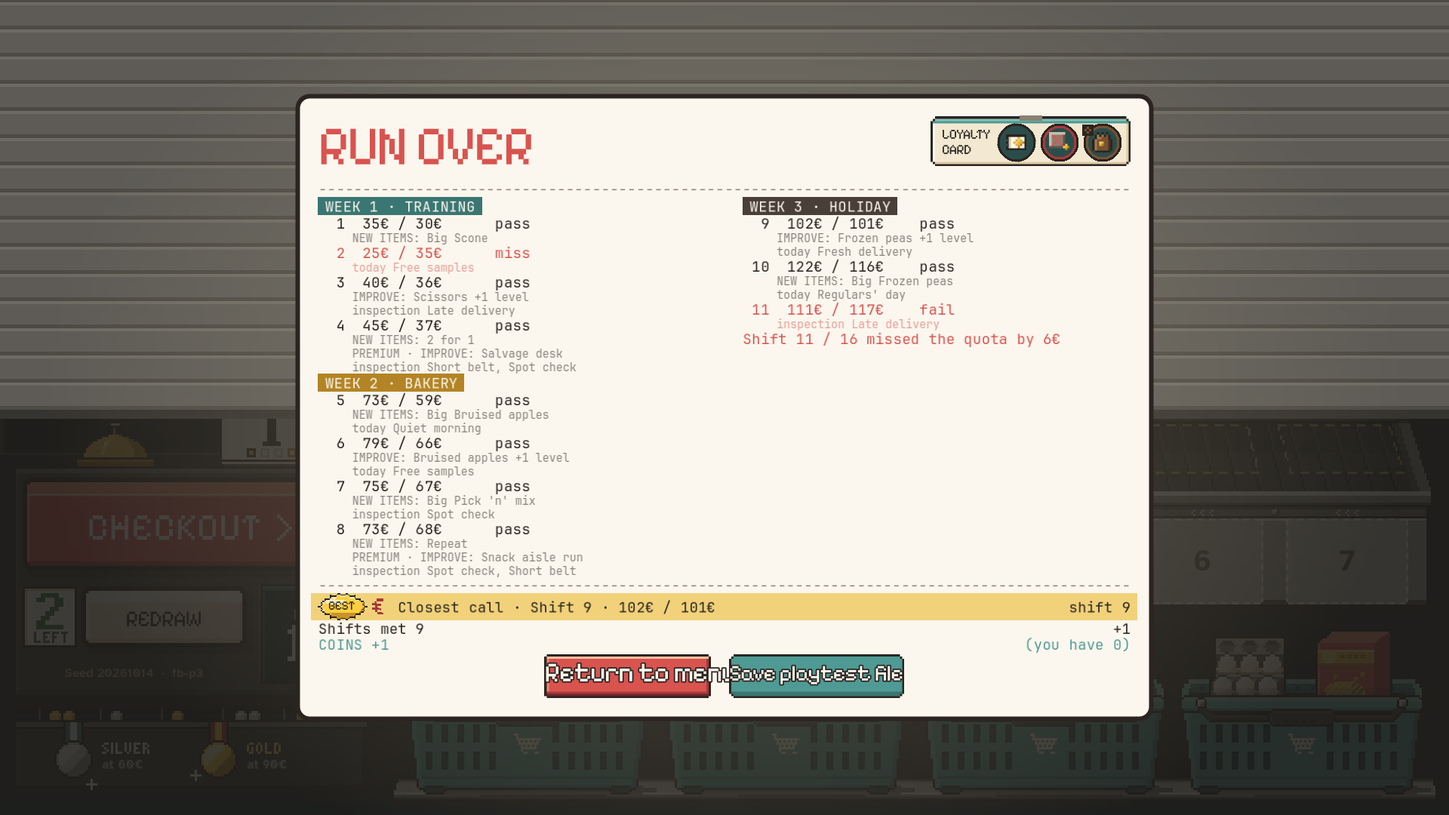
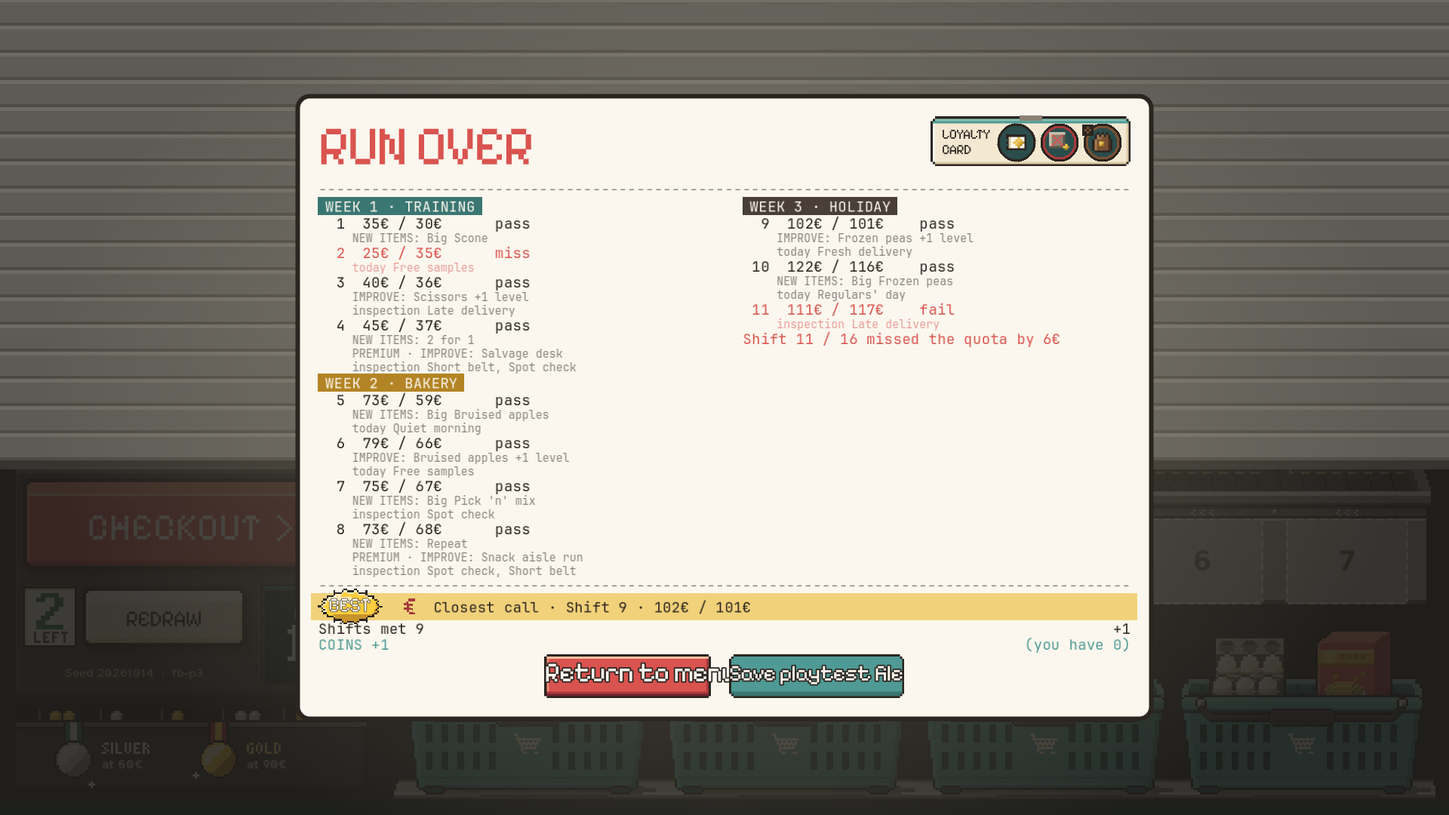
Fix the BEST line review findings
- Double checkout: split the joined result's MORNINGs at row 1's cards,
  so two rows' MORNINGs are never one longer combo; new core test.
- Move the shortest combo and the Closest call miss factor into
  HighlightDefinition (min_combo 2, close_miss_factor 0.5).
- Bigger, readable BEST sticker: the largest scale that fits (half
  steps, whole from 2), overhanging the band; 13-character indent in
  week columns; BEST in cream with an ink outline; mini centred.
- Leave out the right-hand "shift N" when the text names the shift or
  the line would be wider than the receipt.
- Retake the four receipt captures; plan doc updated.

diff --git a/docs/FULL_BUILD_PLAN.md b/docs/FULL_BUILD_PLAN.md
@@ -417,7 +417,7 @@ The run's dessert is the final receipt on the results screen (`ui/final_receipt.
 - the headline, "RUN WON!" or "RUN OVER", in green or red
 - one line per played shift: its number, €total / €quota and pass or fail, then one dim line per machine visit ("NEW ITEMS: Milk", "BONUS · UPGRADE: Eggs › GOLDEN", "UPGRADE: Coupon engine LV 2", "binned NEW ITEMS" since v0.61; "BONUS · UPGRADES: …", "STAMP DAY: Category engine" and "binned COUPONS" until then; until #77 the card picked or "skipped" and the upgrade taken) and the inspection played; the receipt steps its fonts down until a full run fits under the top bar
 - on a lost run, the shortfall ("Shift 3 / 8: short by €12")
-- since v1.37, the run's best moment on one gold BEST line between the history and the coins (the approved direction A of `docs/art/mockups/receipt_highlight.html`): a gold BEST sticker, the item's mini, "Biggest payout · Golden Milk · 264€" and the shift on the right ("shift 14"). `RunHighlight` (core) picks it from the run history: Biggest payout (one item's payout against half its shift's quota), Over quota (a passed shift's total against ×2 its quota, "×2.3"), Longest combo (a CHAIN, BATCH or MORNING against 5 items, "Longest CHAIN · 5 items · 118€"), First GOLDEN (the first GOLDEN item checked out, always at its bar) and Closest call (a shift passed by 1€ or less, "Closest call · Shift 9 · 102€ / 101€"); the highest score (value against bar) wins, the kind listed first on a tie, and when no kind reaches its bar Biggest payout prints anyway, so a lost run gets its line too. Within a kind the bigger value wins, then the later shift, then the earlier slot; a Day off is skipped. The bars, the kinds' order and their words are data (`data/balance/highlight.tres`, `HighlightDefinition`). Each checkout records its best item and longest combo (`ShiftRecord.best_payout`, `best_card`, `best_combo`; run save format 16); a run saved before v1.37 picks from what it has, and with nothing at its bar and no payout recorded prints no line. In week columns the line spans both columns. It prints in its turn: the band wipes in (200 ms), the sticker slams down with the stamp sound and holds 50 ms, a glint crosses the band (450 ms), and the coins wait 300 ms more (`final_highlight_*` in `CountUpTuning`: about 0.62 s added); a tap prints it in its final state with the rest; reduced motion shows it at once and keeps the hold
+- since v1.37, the run's best moment on one gold BEST line between the history and the coins (the approved direction A of `docs/art/mockups/receipt_highlight.html`): a gold BEST sticker, the item's mini, "Biggest payout · Golden Milk · 264€" and the shift on the right ("shift 14"; left out when the text names the shift, Over quota and Closest call, or the line would be wider than the receipt). The sticker is drawn at the largest scale that fits the indent (9 characters, 13 in week columns) and overhangs the band a little, as the mock-up's does; its BEST is cream with an ink outline. `RunHighlight` (core) picks it from the run history: Biggest payout (one item's payout against half its shift's quota), Over quota (a passed shift's total against ×2 its quota, "×2.3"), Longest combo (a CHAIN, BATCH or MORNING against 5 items, "Longest CHAIN · 5 items · 118€"), First GOLDEN (the first GOLDEN item checked out, always at its bar) and Closest call (a shift passed by 1€ or less, "Closest call · Shift 9 · 102€ / 101€"); the highest score (value against bar) wins, the kind listed first on a tie, and when no kind reaches its bar Biggest payout prints anyway, so a lost run gets its line too. Within a kind the bigger value wins, then the later shift, then the earlier slot; a Day off is skipped. A Double checkout's two rows each have their own MORNING, so they are never counted as one combo. The bars, the shortest combo (2 items), the score of a Closest call that misses its bar, the kinds' order and their words are data (`data/balance/highlight.tres`, `HighlightDefinition`). Each checkout records its best item and longest combo (`ShiftRecord.best_payout`, `best_card`, `best_combo`; run save format 16); a run saved before v1.37 picks from what it has, and with nothing at its bar and no payout recorded prints no line. In week columns the line spans both columns. It prints in its turn: the band wipes in (200 ms), the sticker slams down with the stamp sound and holds 50 ms, a glint crosses the band (450 ms), and the coins wait 300 ms more (`final_highlight_*` in `CountUpTuning`: about 0.62 s added); a tap prints it in its final state with the rest; reduced motion shows it at once and keeps the hold
 - the coins at the bottom: shifts passed (an overtime line until v1.03), then the run's coins and the profile's total ("you have ?" when the profile couldn't be saved)
 
 It prints line by line, one every 80 ms (`final_line_ms`), and a tap prints the rest at once (its own press reader). The coin sounds and the music's 18 dB duck start when the coin lines print, a skipped print included. The loyalty card, with its starting-upgrade box, is stapled to the top-right corner beside the headline and covers no line. Return to menu (the one primary action since v0.93) keeps its 350 ms / mouse-up arm, so it can be clicked mid-print (it prints the rest at once first); Export log stays. Return to menu logs `results_exit` and opens the title with its sign already lit (no intro).
@@ -827,7 +827,7 @@ Content freeze at the end of phase 3. No new features after that.
 | v1.31 | 2026-11-12 | BATCH bookends (the user's pick of 2026-11-12 on the mock-up `docs/art/mockups/batch_positions.html`: option A "Bookends" with option D's icing drip); playtest-facing, presentation only, no rule, card value, payout or save change · **Caps:** a Bakery batch's frame (`BatchFrame`, its bookends `BatchBookends`) gets an end cap on each side the rules read: a FIRST cap on its left side when its first ticket is the batch's first, a LAST cap on its right side when its last is the batch's last (a batch split by a link that skips products caps only its end runs; a drag's ghost at a batch end keeps that end's cap, and the drip, at the frame's end). A cap is 18 px of ink round a mustard face shaded dark at its sides, a light row near its top and a dark row near its foot, 8 px outside the frame's side and 6 px over its top, down to its foot, onto the end ticket's outline only; its word sits on a mustard plate (the knot plate's pixel glyphs) across the frame's foot under the end ticket, against its cap (the mock-up had the tabs on the top band, where the planning rail strips and their CROISSANT banners run and hid them, so they moved to the foot). A frame lit by a BATCH chip turns the caps gold too. A Produce chain's frame (`ChainFrame`) wears none · **Icing drip:** when an Iced bun glazes the batch's last item (from the score's MULTIPLIER step, `PlanningModel.glazes`), its icing (`art/src/effects/icing_drip.txt`, 12x19 at 2x) pours over the LAST cap from its top, 2 px over its left side (centred, it covered the last ticket's price window; further right, the next ticket) · **Planning hover:** hovering a job card lights the cap it reads gold with its tab (×1.2 and a glow, 0.2 s): Croissant FIRST, Stale doughnut LAST, Iced bun LAST with a gold dashed line under the frame's foot from its ticket to the cap and its drip running down again (0.5 s); a Baguette fills the frame's foot band in gold up to its ticket (0.6 s); a job WASTED at its place turns its cap and tab tomato. A small plate under the ticket, beside the tabs, says it: NOT FIRST, NOT LAST, 2 EARLIER (the Baguette's count, from its bonus step), ×2 LAST, IS LAST, 0 EARLIER · **Count:** the batch's frame now stays in the count (`BatchFrames.count`), round the batch's tickets still on the belt (the bagged ones drop off its left end, and the FIRST cap with the first); each job card's step plays on it (`BeltRide` and the handbook clip call `BatchFrame.fire`): an opener armed slams the FIRST cap and runs a gold spark (`art/src/effects/batch_spark.txt`) along the frame to the LAST cap, which slams as it lands (0.7 s, 0.76 s); a Baguette's bonus fills what's left of the frame's foot band, from its left end to its ticket (0.5 s), and counts its earlier items in numbered pops over the frame (0.16 s apart); a closer's bonus runs the spark, counts the batch (0.12 s apart) and slams the LAST cap. A counted item still on the belt pops over its ticket; the bagged ones tick in one counter at the frame's left end, each number replacing the last with a small punch (×1.3, 0.12 s), so the pops never pile up. A batch split over two frames plays each beat once: the spark and a cap's slam on the frame showing that cap, the dashed line (hover too) only on the frame showing LAST, from the Iced bun's ticket or that frame's left end; an Iced bun armed draws its dashed line to the lit LAST cap, and its ×2 landing slams it, pops ×2 and runs the drip again; a job WASTED slams its cap tomato. All on the count's tweens; reduced motion lights and puts back at once (glow and enlarged tab included) with no slam, spark, fill run or pop; a hover ending mid drip re-run leaves the drip whole · **Handbook:** BATCH's clip shows the caps and its count beats; its window's foot now drops under the FIRST and LAST tabs (`HandbookClip._fit_view`, at their lit size), which it cut before · **Handbook updated** (the user's note of 2026-11-12 after playing: "looks good, guide need update"): BATCH's page keeps its first paragraph over the clip (still the BATCH chip's tooltip, word for word) and adds two after the worked equation, under a dashed rule (`HandbookEntry.page_notes`: a rule's later paragraphs, a blank line apart; `tip_rule` its first, the tooltip): the frame's FIRST cap on its left end and LAST cap on its right end; hover a card to light the cap it needs (Croissant FIRST; Stale doughnut and Iced bun LAST, the Iced bun's icing dripping over it; Baguette fills the frame's foot in gold, counting the items before it); a lit BATCH chip turns both caps gold, a WASTED card its cap red; the split-frame sentence was dropped at the merge with v1.29, whose Shelf swap no longer links over items (no live card splits a batch; the bookends still cap only a split batch's real ends). The Bakery page names the caps too. Capture: `--handbook=<entry id>,scroll=end` scrolls the entry to its end. Tests: `handbook_data_test` (the BATCH page's wording, its tooltip the first paragraph), `handbook_page_ui_test` (the notes after the slip inside the column, both caps' tabs inside the clip's window); captures `docs/art/mockups/batch_bookends_captures/handbook_batch_*`, `handbook_batch_caps_text_*`, `handbook_bakery_*` · Tests: `batch_bookends_ui_test` (model readers; caps at the first and last tickets, onto their outlines only, tabs across the frame's foot, nothing over a ticket's text, chips, glyphs or window; the drip only with an Iced bun on the last, off the other tickets and every keep-clear area; the hover looks, fill, dashed line and notes, an item with no job lighting nothing; NOT LAST, IS LAST and 0 EARLIER; the real count through BeltRide (frame round the tickets left, FIRST cap gone with the first, pops over tickets or the left-end counter, never two at one place); the bagged items' counter and no pop dropped before it starts; a split batch's beats once each; a drag's ghost at either batch end; reduced-motion hover and the drip after a cut hover; a chain's frame wears none), `batch_frame_ui_test` (the count keeps the frame, round the tickets left once the first two are bagged) · not re-measured: no balance change · captures `docs/art/mockups/batch_bookends_captures/` |
 | v1.32 | 2026-11-13 | Start boosters: rules, data, save and screens (the user's pick of 2026-11-13 on `docs/art/mockups/start_boosters_v3.html`: "I really like mockup. I think we can start building and we'll polish small details after on") (section 7.2, "Page 1 Boosters"); playtest-facing, opening-time rules: the Staples basket draw goes; two sealed aisle boosters of 3 cards (2 COMMON + 1 hit card, RARE (BIG) at `start_booster_hit_rare_percent` 50, never GOLDEN), opened by the player; swaps wait until every booster is open; 3 offers per aisle (`regular_offer_max` 4 -> 3); RESTOCK deals a whole opened booster again (new hit, differs by at least one card); at 6 completed aisles PICK 2 OF 3 replaces the aisle change (`profile.stock_pair` no longer used); **2-aisle runs** (the user's play test of 2026-11-13: "the 2 booster you choose are the only one inside the run, the run-only one does not read well visually and not sure it is useful"): a run stocks only its two boosters' aisles (the two dealt, or the pair kept at PICK 2 OF 3), so the RUN ONLY aisle and its sign are gone and the machine's NEW ITEMS draw only the staples and those two aisles' products; **capsule items from other aisles no longer join a run** (the user, 2026-11-13: recently unlocked items of other aisles must not reach a run either): the end-cap's new arrivals are removed, a capsule item is in a run only when the run stocks its aisle, the run's first NEW ITEMS draw no longer holds one, the Run info's NEW chip goes, and `end_cap_max`, `end_cap_window_runs` and `new_arrival_first_visit` are removed (a run save no longer writes `new_arrivals`; an older save's list is ignored, no format change); `stock_aisle_count` removed (`dealt_aisle_count` 2 is the stock); with a badge pin earned (or any pin worn) the BADGE PINS step comes before the packs (the pins every profile starts with don't hold them). New data: `start_booster_size` 3, `start_booster_hit_slots` 1, `start_booster_hit_rare_percent` 50, `start_booster_choice_count` 3 (`start_basket_size` removed). The good first pick is suggested (GOOD FIRST PICK, TAKE PACK N), no longer picked for the player at the deal. Presentation: YOUR STORE is the store at dawn (shutters roll up, walk-in, lamps on a ceiling track, each booster opened by hand with the hit card waiting for a click, STOCKED! when the last opens), the regulars in a STANDING ORDER crate that opens the **swap window** (the user's pick of 2026-11-13 on `docs/art/mockups/start_regulars_swap.html`, variant A: "I really like new swap with booster opening and drag and drop mechanic"; it replaces the swap tray: a modal with one swap booster of up to 3 plain products per stocked aisle, opened like page 1's boosters, drawn and saved the first time the window shows; drag and drop or click then click onto the regulars' basket; a card on a swapped slot trades places; undo by dragging the OUT regular back or the item out, or RESET; no per-aisle swap limit (`staple_swap_aisle_max` removed: all swaps may come from one aisle); refusals NO SWAPS LEFT, 2 IN THE CART, BACK TO ITS SPOT; the ⇄ N LED; DONE plays the new regulars into the crate with a ⇄ chip; locked under padlocks with no completed aisle; **NEXT stops once** at the window while a swap is unlocked and unused, then DONE goes on to YOUR BUILD), the **RESTOCK key moved** to the floor row just left of the primary key (as tall, a pixel refresh glyph before RESTOCK; teal when ready, brass and pressed in while armed, a second click cancels, grey once used, hidden while locked; the hint LED shortens and stays centred) with its returns tote centred in the counter front, PICK 2 OF 3 under three lamps with the third SOLD OUT; YOUR BUILD shows the packs face up as cards, NEW PACKS on the deck pile, the BADGE PINS step, and OPEN STORE flies the cards into the cart before the roller shutter; a **press-bob NEXT key** (the user's pick C on `docs/art/mockups/next_key_idle.html`): the armed primary key (both pages, and the pins step's) no longer wears chase bulbs; it never changes size: on arming its face hops 1, 2, 1, 0 art px, then every 1.8 s the face rises 1 art px with the dark ledge doubling under it for 0.4 s (as if released and waiting to be pressed), the labels moving with the face; it rests while hovered, and under reduced motion it stays still (`next_hop_ends_s`, `next_hop_lifts`, `next_bob_from_s`, `next_bob_s`, `next_bob_hold_s`, `next_bob_px` in `data/balance/start_boosters.tres`). Run save format 15 (14 before the swap window, 13 on this branch before the 2-aisle runs; a setup saved mid-way, with a third stocked aisle or with per-slot regulars offers, restarts; a run resumed with a sealed RESTOCK booster opens on page 1). Balance numbers left to the end-of-phase pass. |
 | v1.33 | 2026-11-13 | Words pass: one name per thing (QUOTA, SHIFT, ...) and the clearer rewrites from the text audit; hover tips B paper card (the user's review of 2026-11-13 of the text audit and `docs/art/mockups/hover_tips.html`: apply every audit fix and rewrite, vetoes in play; QUOTA, SHIFT and YOUR REGULARS are the dominant terms, the audit's STAPLES rename is rejected); playtest-facing, words only, no rule, card value, payout or save change. Dominant terms: QUOTA (no TARGET, SPEND or BEAT for it: the receipt head reads MEET THE QUOTA, the monitor QUOTA N€, margins N€ OVER QUOTA, MISSED BY N€, ON QUOTA, stamps QUOTA MET, the monitor's checkout stamp MET! to fit its column), SHIFT for the turn (the Day off pin is now Shift off; the desk calendar's page reads SHIFT over the shift's number, in the small capitals so it clears the sign), PAYDAY (no manager's or final review; PAYDAY · 2 INSPECTIONS, no maluses), MISS (no slip or short), YOUR REGULARS, EXTRA DRAW and PREMIUM (no bonus ticket, bonus draw or AGAIN!; the premium and payday announces read RARE OR LEGENDARY and ITEMS BIG OR GOLDEN), DAY EVENTS (the run info heading), LOYALTY PERKS (the run info heading; the machine's second chute is IMPROVE · BETTER CARDS, PERKS, shortened to fit the key), +1 level (no steps), HANDBOOK (pause plate, title and top bar buttons, the tip footer), TOYS (the title button and the storefront till). Rewrites: every card rule names its keyword in capitals (BATCH, CHAIN, PAIRED) and prints € on its bonuses (+4€; the monitor's descriptions and the stickers keep their digit-free templates, and Lemon, Soup, 2 for 1 and Shelf swap keep their monitor wording, to hold round 4's text band); place words follow the glossary (earlier, right before, beside, (max N)); Eggs, Batteries, Lemon, Stale popcorn, Multipack, Odd socks, Soup, Iced bun, Birthday candles, Cream, 2 for 1, Shelf swap and the tags reworded; the loyalty perks say item, not product, with the audit's Category engine, Coupon engine, Lemon squeezer, Rule bender, Salvage desk, Slot engine, Bulk deal, Fire sale, Banana stand, Perfect pair, Mixed basket and aisle-run wording; day events in sentence case (Free samples' First item ×2, Happy hour's Last card +3€, Small baskets' −1 basket item); the training week and Holiday rush notices; handbook pages CHAIN, WASTED, PAIR, Food, Coupon, Repeat, FIRST / LAST and a new PLACES page LATER (the keyword tips follow); the results receipt (missed the quota by, Shifts met, thrown away, MEDAL ·); the seed line shows in debug builds only. Hover tips, design B "paper card" (the recommended one in `docs/art/mockups/hover_tips.html`, approved 2026-11-13): every hover in the game is one shared card (TipCard, drawn from a TipSpec; mounted by GlyphTips; the badge pin's card is the same card): pixel-crisp pin_card frame with its ink shadow and tail, a band in the kind's colour (mustard keyword, the family's face, teal perk, slate status, brass pin, cream coupon/price, tomato when something is not working, paper for a word) with the icon, the title in chunky capitals and a tag, the rule with coloured money, ×N pills, keyword and family chips and underlined boxed words, a muted fine-print line, a live line with a dot, and key caps for CLICK <action>, RIGHT-CLICK HANDBOOK and SHIFT KEPT. Up to 2 keyword or word boxes (QUOTA, THE ROW, SLOT, FAMILY, COUPON, PREMIUM and every keyword) open beside the card, on the side with more room, flipping at the screen's edges. It opens after 0.2 s with a small pop, opens off the hovered thing (not the mouse: below tickets and the top bar, right of the left column, above the belt), stays inside the screen at 1280x720 and 1920x1080, moves straight to the next thing within 0.3 s of closing, Shift keeps it open (Esc or a click closes it) and a right-click opens its handbook page. Migrated from native tooltips or the old GlyphTip: loyalty stamps and the LOYALTY word, week medals ("Score 130€ in one shift (2× the quota) to get one extra prize draw", ONCE A WEEK, their state as the live line), the week glass (week, event and its effect, CLICK TIME CARD), the machine's chutes, closed slots, Spot check's zero slot, the Shift off pile, the price gun, its picker and the family sticker tag, the keep screen's items, the Menu key, family glyphs and words, keyword chips (NOT WORKING when wasted), MORNING marks, ticket colours, price windows (PAYS 3€) and the monitor's bag and coupon glyphs. The start screen (after the start boosters merge): its canvas hovers show the same card through StartTips, a pool of TipTargets laid each frame over BoosterPage's, the swap window's and BuildPage's hit areas and shown by the board's own GlyphTips (it replaces the board's scan popup): the crate's regulars (BANANA · YOUR REGULAR, the rule, CLICK SWAP, which opens the swap window; locked, "Swaps locked: 1 swap per finished aisle."; before every booster is open, "Open every booster to swap it."), each opened booster card (tagged with its aisle) and its family chips (HOUSEHOLD · FAMILY: "Scissors is a Household item." with the FAMILY box), the swap window's cards (a card the copy limit keeps out says "You can't have more than 2 of one item." in red; an OUT regular and a SWAPPED IN item say how to undo) and basket items, page 2's spread pack cards (tagged with the pack) and each pack's family band ("This starter pack is built around Breakfast items."); no tip while a booster opens, a card is dragged, the swap window slides, the page slides, the BADGE PINS step is open or the deal or OPEN STORE's flight runs; the RUN-ONLY tip is dropped (the third aisle is gone). Start screen words: OPEN STORE › over N CARDS (no CLOCK IN), the hint LED OPEN STORE, THEN START SHIFT 1, WORN PINS: ACTIVE THIS RUN, the copy limit's tag MAX 2 IN CART (the hint LED YOU CAN'T HAVE MORE THAN 2 OF ONE ITEM, also for a pack the copy limit refuses, was TOO MANY COPIES IN THE CART), SWAPS LOCKED · 1 SWAP PER FINISHED AISLE (was COMPLETE AN AISLE) and RESTOCK AT 3 FINISHED AISLES; the title screen's export icon shows its tip (its own GlyphTips on the stage); the log export reads *Save playtest file* (top bar menu, results, title tip; it stays in release, since the playtest builds are release exports); the machine's thank-you line names the TOTAL (TOTAL 114€ ✓), an inspection's extra draw is stamped QUOTA MET · INSPECTION, and Slot engine says *the card in slot 6* (a Repeat there counts); the machine's prize popup tags a perk PERK (LOYALTY PERK overran its title box); the week glass's training-week tip counts the misses left; the figurine book's perk ring shows no tip; a tip's keyword boxes keep off the hovered target and its footer keys wrap to a second row; the receipt's quota stamp reads QUOTA MET (was BEATEN!); the starter packs' hints print € on their bonuses (Milk bar: Cream +4€ for each PAIRED item); a copy-limited swap window card fits its rule above its MAX 2 IN CART tag (Bent lolly's last line hid under it).
-| v1.37 | 2026-11-13 | The final receipt's BEST line (the user's yes of 2026-11-13 to direction A of `docs/art/mockups/receipt_highlight.html`, its questions' defaults taken) (section 6.2); playtest-facing, no scoring rule or card value change · **Pick:** pure `RunHighlight` (core) over the run history: Biggest payout, Over quota, Longest combo (CHAIN, BATCH or MORNING), First GOLDEN and Closest call, each scored against its bar in `data/balance/highlight.tres` (`HighlightDefinition`, linked as `BalanceDefinition.highlight`: half the shift's quota, ×2 the quota, 5 items, any GOLDEN, passed by 1€ or less), the highest score winning, the kind order breaking ties, Biggest payout the fallback, so every run that paid for an item gets a line, a lost one too; within a kind the bigger value, then the later shift, then the earlier slot; a Day off is skipped; Biggest checkout and Rarest prize stay out; a combo reads "N items" (no plural item names) · **Records:** `RunState.checkout` fills each `ShiftRecord`'s `best_payout`, `best_card` and `best_combo` (keyword, length, pay) from the checkout's result (a Double checkout's joined one), written only when set; **run save format 16** (a version 15 save reads as it is: its records have none, so its highlight picks from the other kinds, and prints no line with nothing at a bar and no payout) · **Receipt:** `FinalReceipt.Tone.HIGHLIGHT`, one line after the second rule, before the coins, across both week columns; `ReceiptHighlight` draws its gold band, a new gold BEST sticker (`art/effects/sticker_burst_best.png`, the polished burst recoloured) and the item's mini (the combo diamond for a combo, the quota target for Over quota and Closest call); it counts in the FITS search · **Print:** the band wipes in (200 ms), the sticker slams with the stamp sound and a 50 ms hold, a glint (450 ms), the coins 300 ms later (`final_highlight_*` in `CountUpTuning`, about 0.62 s added); a tap prints it final; reduced motion keeps only the hold · **Telemetry** (`docs/PROTOTYPE_PLAN.md` section 8, additive): `checkout` gains `best_payout` and `best_card`, `run_end` gains `highlight` (kind, shift, value, card, a combo's keyword and length, fallback) · tests: `tests/core/run_highlight_test.gd`, `tests/ui/receipt_highlight_ui_test.gd`; captures in `docs/art/mockups/receipt_highlight_game/` |
+| v1.37 | 2026-11-13 | The final receipt's BEST line (the user's yes of 2026-11-13 to direction A of `docs/art/mockups/receipt_highlight.html`, its questions' defaults taken) (section 6.2); playtest-facing, no scoring rule or card value change · **Pick:** pure `RunHighlight` (core) over the run history: Biggest payout, Over quota, Longest combo (CHAIN, BATCH or MORNING), First GOLDEN and Closest call, each scored against its bar in `data/balance/highlight.tres` (`HighlightDefinition`, linked as `BalanceDefinition.highlight`: half the shift's quota, ×2 the quota, 5 items, any GOLDEN, passed by 1€ or less; also `min_combo` 2 and `close_miss_factor` 0.5), the highest score winning, the kind order breaking ties, Biggest payout the fallback, so every run that paid for an item gets a line, a lost one too; within a kind the bigger value, then the later shift, then the earlier slot; a Day off is skipped; Biggest checkout and Rarest prize stay out; a combo reads "N items" (no plural item names) · **Records:** `RunState.checkout` fills each `ShiftRecord`'s `best_payout`, `best_card` and `best_combo` (keyword, length, pay) from the checkout's result (a Double checkout's joined one, its rows' MORNINGs kept apart), written only when set; **run save format 16** (a version 15 save reads as it is: its records have none, so its highlight picks from the other kinds, and prints no line with nothing at a bar and no payout) · **Receipt:** `FinalReceipt.Tone.HIGHLIGHT`, one line after the second rule, before the coins, across both week columns; `ReceiptHighlight` draws its gold band, a new gold BEST sticker (`art/effects/sticker_burst_best.png`, the polished burst recoloured) and the item's mini (the combo diamond for a combo, the quota target for Over quota and Closest call); the sticker at the largest scale that fits (half steps, whole from 2) in the indent (9 characters, 13 in week columns), overhanging the band, its BEST cream with an ink outline; "shift N" on the right only when the text doesn't name the shift and the line fits; it counts in the FITS search · **Print:** the band wipes in (200 ms), the sticker slams with the stamp sound and a 50 ms hold, a glint (450 ms), the coins 300 ms later (`final_highlight_*` in `CountUpTuning`, about 0.62 s added); a tap prints it final; reduced motion keeps only the hold · **Telemetry** (`docs/PROTOTYPE_PLAN.md` section 8, additive): `checkout` gains `best_payout` and `best_card`, `run_end` gains `highlight` (kind, shift, value, card, a combo's keyword and length, fallback) · tests: `tests/core/run_highlight_test.gd`, `tests/ui/receipt_highlight_ui_test.gd`; captures in `docs/art/mockups/receipt_highlight_game/` |
 
 
 **v0.60 review correction (2026-10-25, #105):** a playtest found that hovering an item's art did not open its folded sticker stack, and the larger polished stickers and giver badges from `docs/art/mockups/readability_v2.html` section 4 had not been ported. The fan now opens from the item's art or ticket as well as its stack, and remains open while reading it. The larger digits, label and burst frames, and 28 px die-cut badges are now used in the game (all 50 products, plain and GOLDEN); the monitor keeps the small minis. The order numbers stand above the larger badges and the fan's rows have more vertical room. Item-hover input and every badge plate have regression coverage; review captures are in `docs/art/readability_105_sticker_fix/`. Presentation only; no scoring or balance change.
